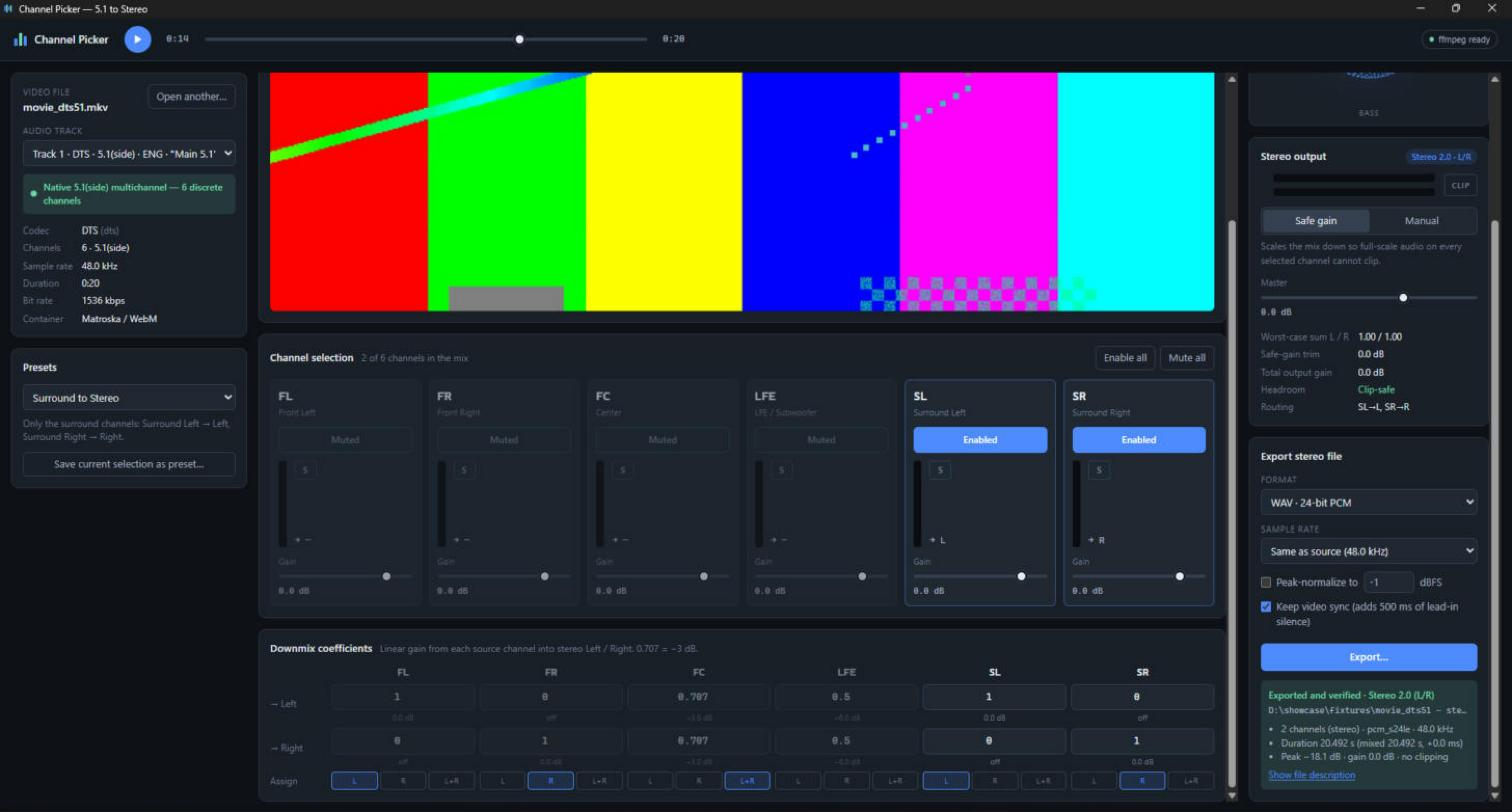
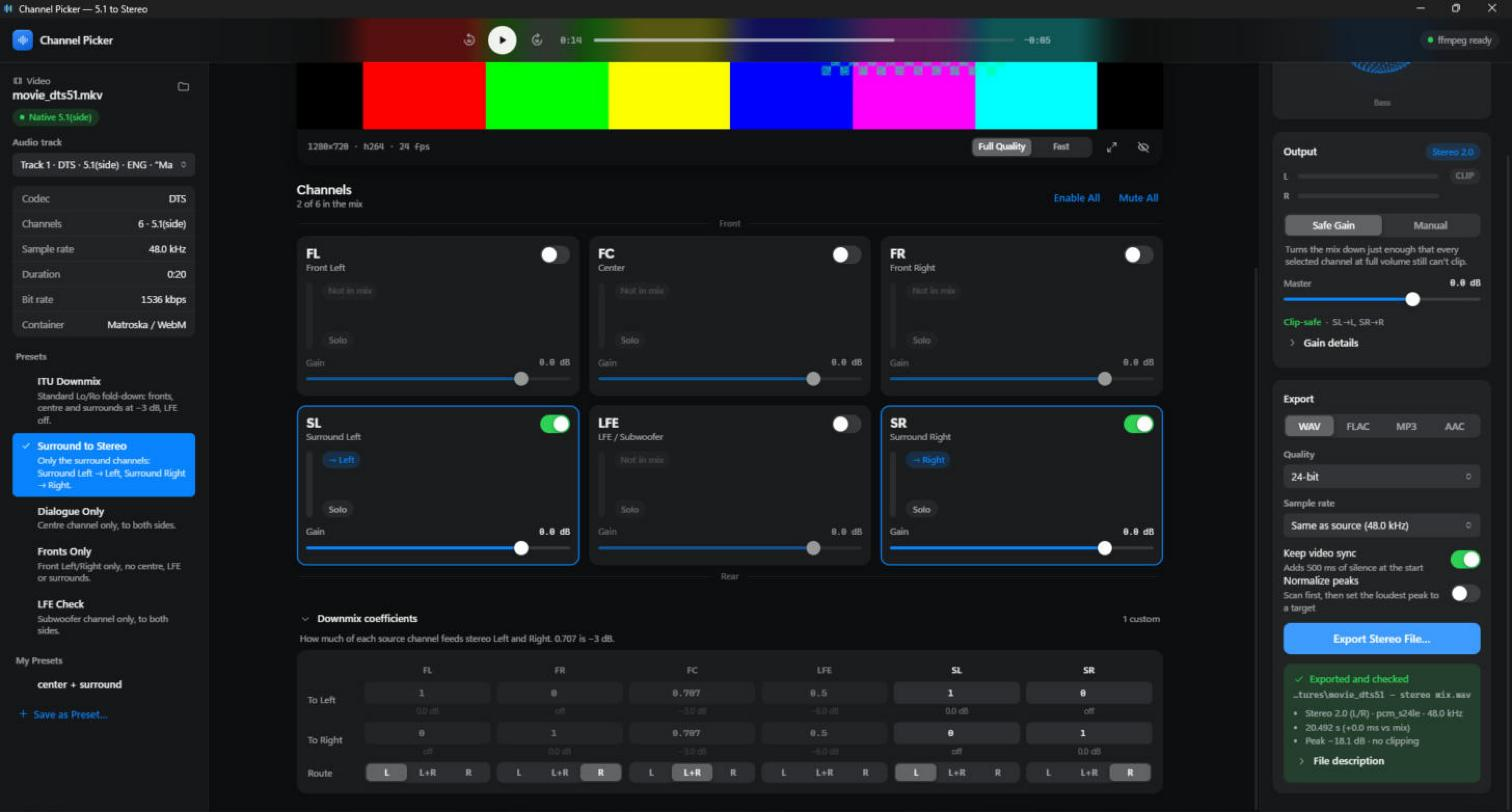
Update README screenshots for the redesign

diff --git a/README.md b/README.md
@@ -20,18 +20,17 @@ Built with [Tauri 2](https://tauri.app) (Rust) and React. ffmpeg does the decodi
 
 ## Screenshots
 
-![Channel Picker previewing a DTS 5.1 movie with the Surround to Stereo preset: synced video, channel strips with live meters, and the sound-reactive orb](docs/screenshot-main.jpg)
-*Previewing a DTS 5.1 movie with **Surround to Stereo**: only SL and SR are enabled, the video plays
-in sync, and the orb reacts on the left and right sides.*
+![Channel Picker playing a DTS 5.1 test movie with the Surround to Stereo preset: presets in the sidebar, synced video, speaker-layout channel cards, the sound-reactive orb and output meters](docs/screenshot-main.jpg)
+*Previewing a DTS 5.1 movie with **Surround to Stereo**, picked from the preset list in the sidebar.
+The video plays in sync and the orb reacts on the left and right sides.*
 
-![Downmix coefficient grid and a verified stereo export](docs/screenshot-export.jpg)
-*The downmix coefficient grid, and an export checked after writing: 2 channels, stereo, exact
-duration, no clipping.*
+![Channel cards arranged like the speakers, the expanded downmix coefficients, and a checked stereo export](docs/screenshot-export.jpg)
+*Channel cards are laid out like the speakers around you: front row FL · C · FR, rear row
+SL · LFE · SR. Below them, the downmix coefficients open as an advanced section. On the right, an
+export checked after writing: 2 channels, stereo, exact duration, no clipping.*
 
-<p align="center">
-  <img src="docs/screenshot-start.jpg" alt="Start screen listing supported decoders and export formats" width="70%">
-</p>
-<p align="center"><em>The start screen shows which formats your ffmpeg build can decode and export.</em></p>
+![The same view in light appearance](docs/screenshot-light.jpg)
+*The app follows the Windows light/dark setting.*
 
 ## Install
 
@@ -47,13 +46,15 @@ first time. Choose **More info → Run anyway**.
 - **Source detection** – codec, profile, channel count and layout for every audio track
   (DTS / DTS-HD MA, Dolby Digital, Dolby Digital Plus, TrueHD, AAC, FLAC, PCM, …).
   Native multichannel sources are clearly marked apart from stereo ones.
-- **Channel selection** – enable, mute or solo each channel, with per-channel gain.
+- **Channel selection** – switch each channel on or off, solo it, and set its gain. The cards are
+  arranged in speaker positions so it's clear which one is which.
 - **Downmix coefficients** – edit how much of each channel feeds Left and Right
   (ITU-R BS.775 Lo/Ro defaults).
 - **No clipping** – *Safe gain* scales the mix so full-scale input on every selected channel cannot
   clip; optional peak normalization on export.
 - **Live preview** – changes are heard immediately; meters, a clip indicator, and a
   sound-reactive dot-matrix orb (bass at the bottom, treble at the top, L/R on each side).
+  Space plays and pauses; the seek bar shows time remaining and has ±10 s skip buttons.
 - **Video preview** – for video files, the picture is shown in sync with the audio at full
   resolution, with full screen and a lighter *Fast* mode. Works with any container ffmpeg reads
   (MKV, M2TS, AVI, MP4, …).
